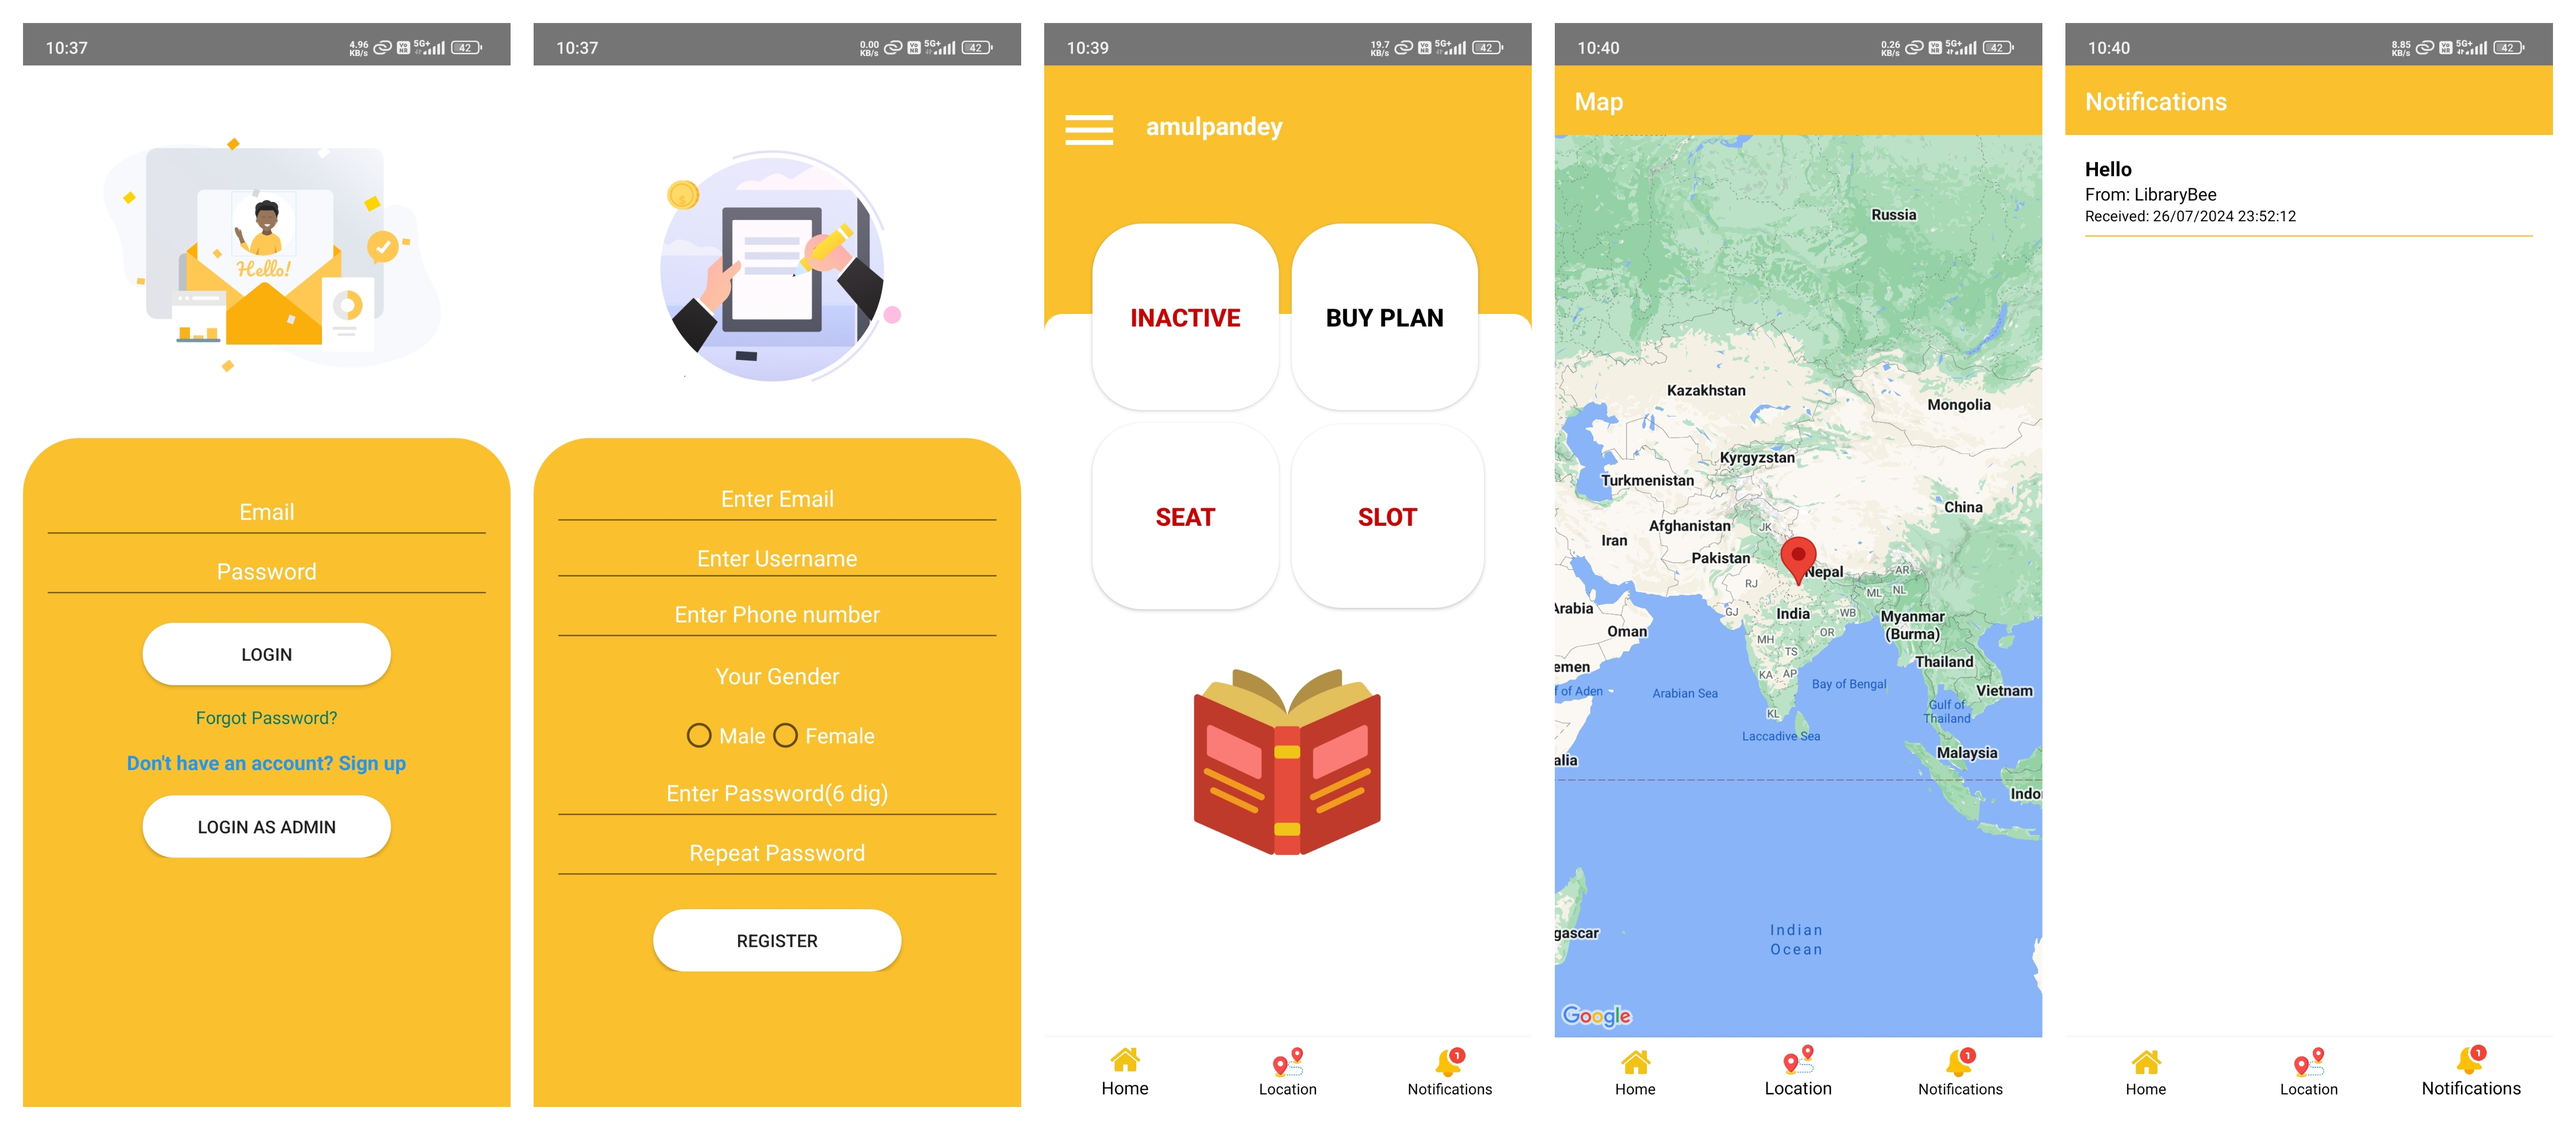
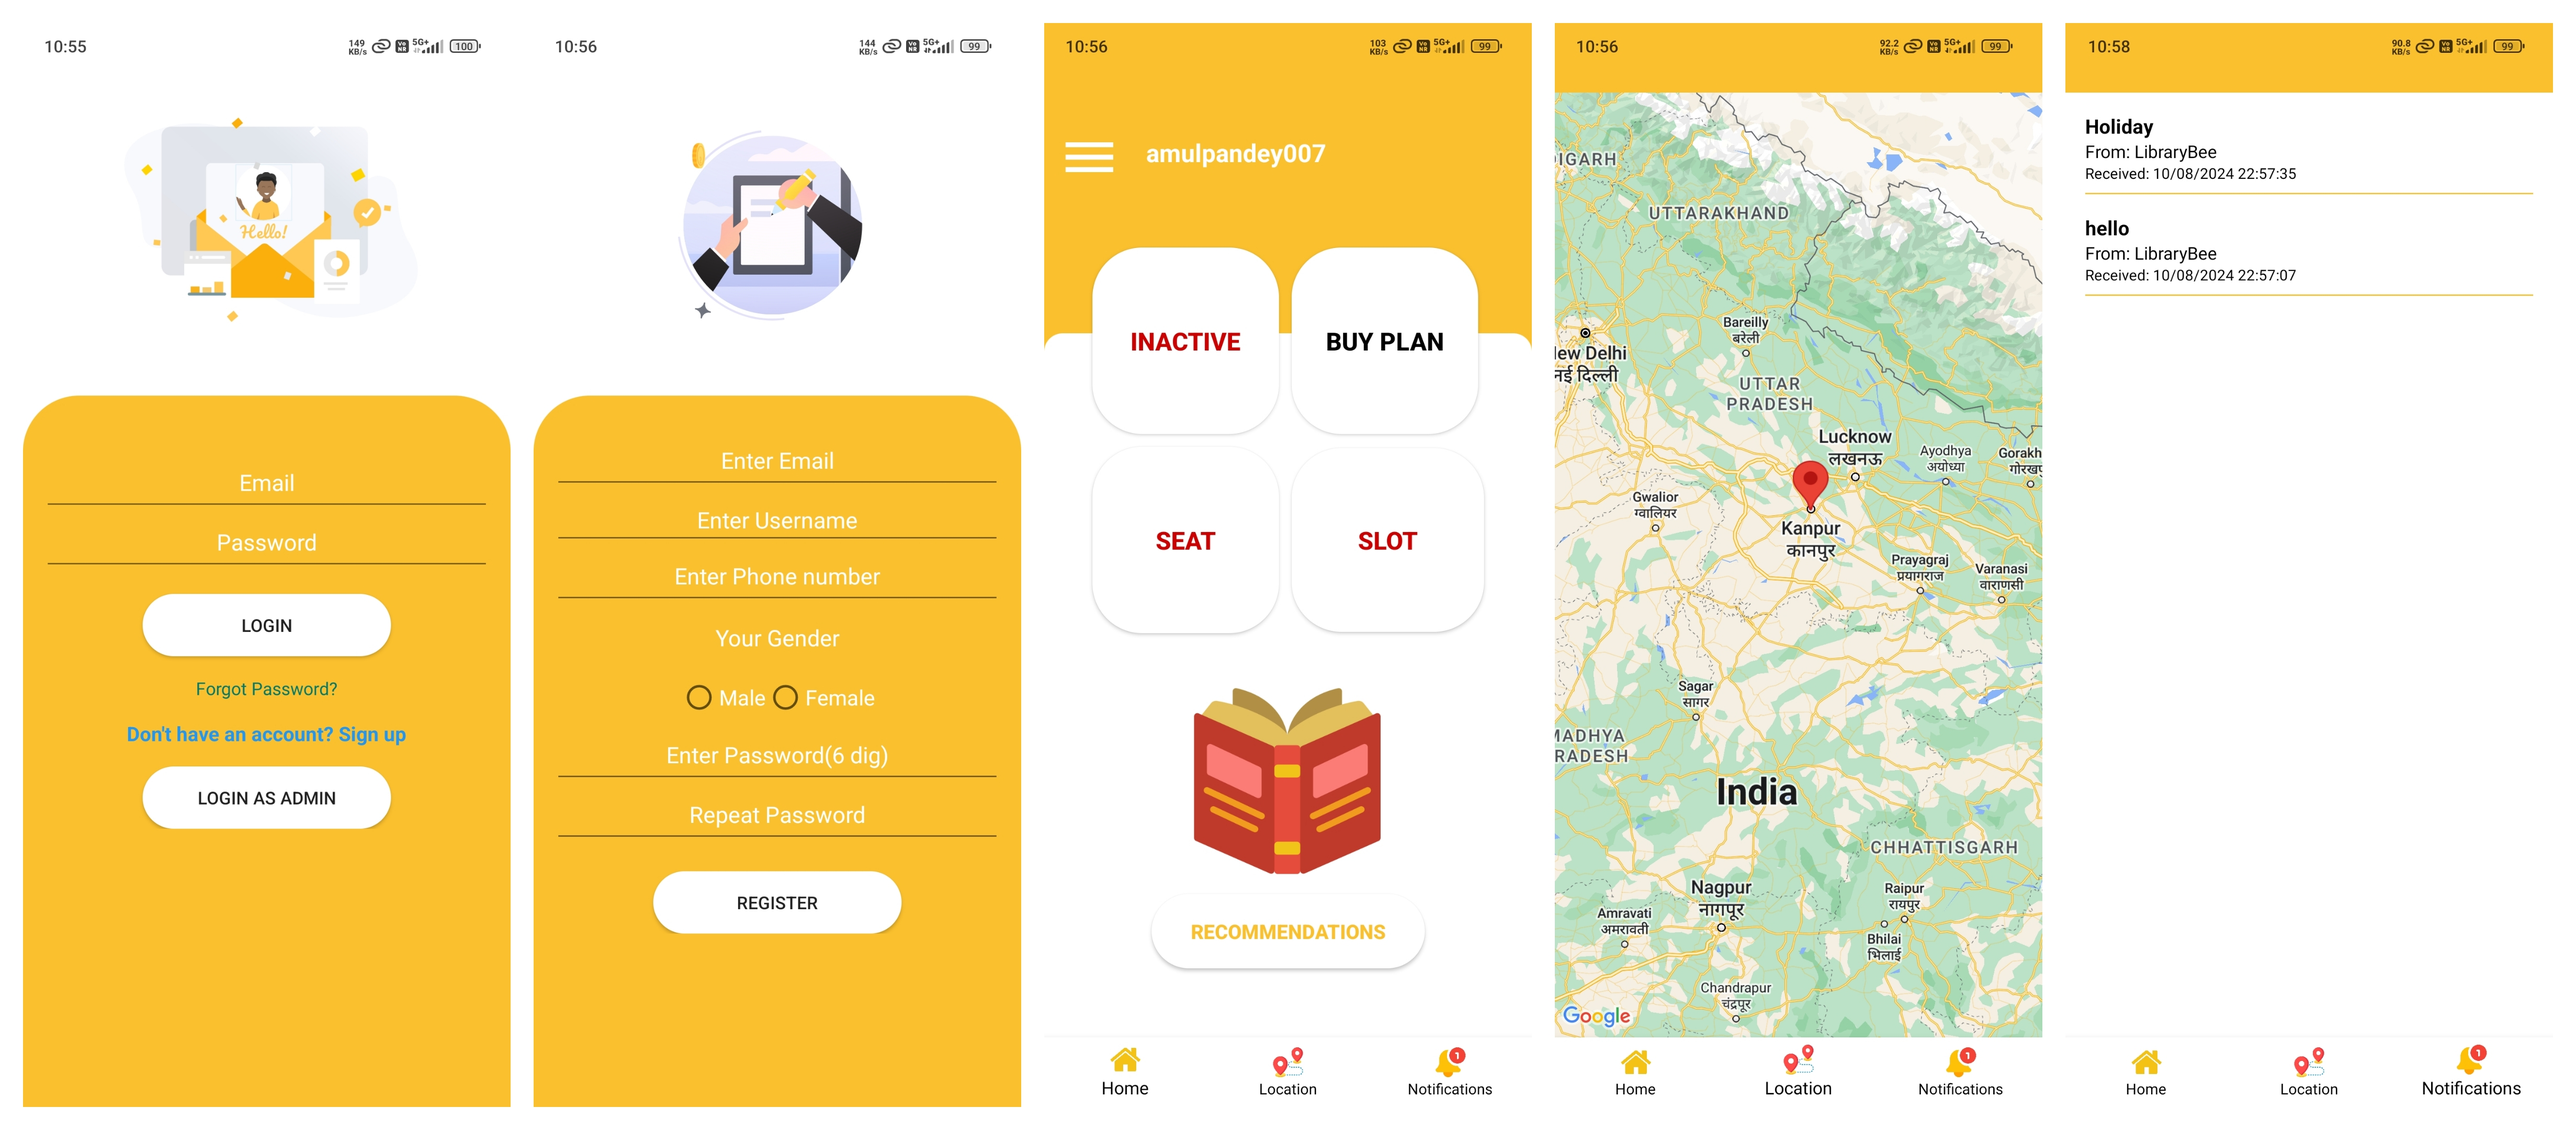
Project Deployed

diff --git a/app/src/main/java/com/example/LibraryBee/Admin_Pannel/UserListActivity.java b/app/src/main/java/com/example/LibraryBee/Admin_Pannel/UserListActivity.java
@@ -6,6 +6,8 @@ import androidx.appcompat.app.AppCompatActivity;
 import androidx.recyclerview.widget.LinearLayoutManager;
 import androidx.recyclerview.widget.RecyclerView;
 import android.view.View;
+import android.view.Window;
+import android.view.WindowManager;
 import android.widget.ProgressBar;
 import android.widget.SearchView;
 import android.widget.TextView;
@@ -28,6 +30,17 @@ public class UserListActivity extends AppCompatActivity {
     protected void onCreate(Bundle savedInstanceState) {
         super.onCreate(savedInstanceState);
         setContentView(com.example.LibraryBee.R.layout.activity_user_list);
+
+        Window window = getWindow();
+        window.addFlags(WindowManager.LayoutParams.FLAG_TRANSLUCENT_STATUS);
+        window.setStatusBarColor(android.graphics.Color.TRANSPARENT);
+
+        // Adjust content to fit system windows
+        getWindow().getDecorView().setSystemUiVisibility(
+                View.SYSTEM_UI_FLAG_LAYOUT_STABLE |
+                        View.SYSTEM_UI_FLAG_LAYOUT_FULLSCREEN);
+
+
         RecyclerView recyclerView = findViewById(com.example.LibraryBee.R.id.recyclerViewUsers);
         recyclerView.setLayoutManager(new LinearLayoutManager(this));
         progressBar = findViewById(com.example.LibraryBee.R.id.progressBar);

diff --git a/app/src/main/java/com/example/LibraryBee/Admin_Pannel/RequestHandeling.java b/app/src/main/java/com/example/LibraryBee/Admin_Pannel/RequestHandeling.java
@@ -11,6 +11,8 @@ import android.os.Bundle;
 import android.util.Log;
 import android.view.View;
 import android.app.AlertDialog;
+import android.view.Window;
+import android.view.WindowManager;
 import android.widget.ProgressBar;
 import android.widget.TextView;
 
@@ -53,6 +55,17 @@ public class RequestHandeling extends AppCompatActivity {
     protected void onCreate(Bundle savedInstanceState) {
         super.onCreate(savedInstanceState);
         setContentView(R.layout.activity_request_handeling);
+
+        Window window = getWindow();
+        window.addFlags(WindowManager.LayoutParams.FLAG_TRANSLUCENT_STATUS);
+        window.setStatusBarColor(android.graphics.Color.TRANSPARENT);
+
+        // Adjust content to fit system windows
+        getWindow().getDecorView().setSystemUiVisibility(
+                View.SYSTEM_UI_FLAG_LAYOUT_STABLE |
+                        View.SYSTEM_UI_FLAG_LAYOUT_FULLSCREEN);
+
+
         requestRef = FirebaseDatabase.getInstance().getReference("requests");
         requestRecyclerView = findViewById(R.id.request_recycler_view);
         requestList = new ArrayList<>();

diff --git a/app/src/main/java/com/example/LibraryBee/User_Pannel/FullScreenImageActivity.java b/app/src/main/java/com/example/LibraryBee/User_Pannel/FullScreenImageActivity.java
@@ -4,6 +4,9 @@ import android.app.ProgressDialog;
 import android.content.Intent;
 import android.net.Uri;
 import android.os.Bundle;
+import android.view.View;
+import android.view.Window;
+import android.view.WindowManager;
 import android.widget.Button;
 import android.widget.ImageView;
 import android.widget.Toast;
@@ -35,6 +38,16 @@ public class FullScreenImageActivity extends AppCompatActivity {
     protected void onCreate(Bundle savedInstanceState) {
         super.onCreate(savedInstanceState);
         setContentView(R.layout.activity_full_screen_image);
+
+        Window window = getWindow();
+        window.addFlags(WindowManager.LayoutParams.FLAG_TRANSLUCENT_STATUS);
+        window.setStatusBarColor(android.graphics.Color.TRANSPARENT);
+
+        // Adjust content to fit system windows
+        getWindow().getDecorView().setSystemUiVisibility(
+                View.SYSTEM_UI_FLAG_LAYOUT_STABLE |
+                        View.SYSTEM_UI_FLAG_LAYOUT_FULLSCREEN);
+
 
         fullScreenImageView = findViewById(R.id.fullScreenImageView);
         deleteButton = findViewById(R.id.deleteButton);

diff --git a/app/src/main/java/com/example/LibraryBee/User_Pannel/SeatSelectionActivity.java b/app/src/main/java/com/example/LibraryBee/User_Pannel/SeatSelectionActivity.java
@@ -4,6 +4,8 @@ import android.content.Intent;
 import android.graphics.drawable.Drawable;
 import android.os.Bundle;
 import android.view.View;
+import android.view.Window;
+import android.view.WindowManager;
 import android.widget.Button;
 import android.widget.GridView;
 import android.widget.ImageView;
@@ -53,6 +55,16 @@ public class SeatSelectionActivity extends AppCompatActivity {
     protected void onCreate(Bundle savedInstanceState) {
         super.onCreate(savedInstanceState);
         setContentView(R.layout.activity_seat_selection);
+
+        Window window = getWindow();
+        window.addFlags(WindowManager.LayoutParams.FLAG_TRANSLUCENT_STATUS);
+        window.setStatusBarColor(android.graphics.Color.TRANSPARENT);
+
+        // Adjust content to fit system windows
+        getWindow().getDecorView().setSystemUiVisibility(
+                View.SYSTEM_UI_FLAG_LAYOUT_STABLE |
+                        View.SYSTEM_UI_FLAG_LAYOUT_FULLSCREEN);
+
 
         radioGroupSlots = findViewById(R.id.radioGroupSlots);
         gridView = findViewById(R.id.gridView);

diff --git a/app/src/main/java/com/example/LibraryBee/Admin_Pannel/AdminDashboardActivity.java b/app/src/main/java/com/example/LibraryBee/Admin_Pannel/AdminDashboardActivity.java
@@ -15,6 +15,8 @@ import android.util.Log;
 import android.view.Menu;
 import android.view.MenuItem;
 import android.view.View;
+import android.view.Window;
+import android.view.WindowManager;
 import android.widget.Button;
 import android.widget.EditText;
 import android.widget.Toast;
@@ -73,6 +75,17 @@ public class AdminDashboardActivity extends AppCompatActivity {
     protected void onCreate(Bundle savedInstanceState) {
         super.onCreate(savedInstanceState);
         setContentView(R.layout.activity_admin_dashboard);
+
+        Window window = getWindow();
+        window.addFlags(WindowManager.LayoutParams.FLAG_TRANSLUCENT_STATUS);
+        window.setStatusBarColor(android.graphics.Color.TRANSPARENT);
+
+        // Adjust content to fit system windows
+        getWindow().getDecorView().setSystemUiVisibility(
+                View.SYSTEM_UI_FLAG_LAYOUT_STABLE |
+                        View.SYSTEM_UI_FLAG_LAYOUT_FULLSCREEN);
+
+
 
         NavigationView navigationView = findViewById(R.id.navigation_view);
         navigationView.setItemIconTintList(null);

diff --git a/app/src/main/java/com/example/LibraryBee/Auth/Signup.java b/app/src/main/java/com/example/LibraryBee/Auth/Signup.java
@@ -6,6 +6,9 @@ import android.content.Intent;
 import android.os.Bundle;
 import android.text.TextUtils;
 import android.util.Log;
+import android.view.View;
+import android.view.Window;
+import android.view.WindowManager;
 import android.widget.Button;
 import android.widget.EditText;
 import android.widget.RadioButton;
@@ -49,6 +52,16 @@ public class Signup extends AppCompatActivity {
     protected void onCreate(Bundle savedInstanceState) {
         super.onCreate(savedInstanceState);
         setContentView(R.layout.activity_signup);
+
+        Window window = getWindow();
+        window.addFlags(WindowManager.LayoutParams.FLAG_TRANSLUCENT_STATUS);
+        window.setStatusBarColor(android.graphics.Color.TRANSPARENT);
+
+        // Adjust content to fit system windows
+        getWindow().getDecorView().setSystemUiVisibility(
+                View.SYSTEM_UI_FLAG_LAYOUT_STABLE |
+                        View.SYSTEM_UI_FLAG_LAYOUT_FULLSCREEN);
+
 
         // Initialize views
         emailEditText = findViewById(R.id.emailEditText);

diff --git a/app/src/main/java/com/example/LibraryBee/User_Pannel/paymentActivity.java b/app/src/main/java/com/example/LibraryBee/User_Pannel/paymentActivity.java
@@ -6,6 +6,8 @@ import android.os.Bundle;
 import android.os.Handler;
 import android.util.Log;
 import android.view.View;
+import android.view.Window;
+import android.view.WindowManager;
 import android.widget.Button;
 import android.widget.Toast;
 import androidx.annotation.NonNull;
@@ -46,6 +48,17 @@ public class paymentActivity extends AppCompatActivity {
     protected void onCreate(Bundle savedInstanceState) {
         super.onCreate(savedInstanceState);
         setContentView(com.example.LibraryBee.R.layout.activity_payment);
+
+        Window window = getWindow();
+        window.addFlags(WindowManager.LayoutParams.FLAG_TRANSLUCENT_STATUS);
+        window.setStatusBarColor(android.graphics.Color.TRANSPARENT);
+
+        // Adjust content to fit system windows
+        getWindow().getDecorView().setSystemUiVisibility(
+                View.SYSTEM_UI_FLAG_LAYOUT_STABLE |
+                        View.SYSTEM_UI_FLAG_LAYOUT_FULLSCREEN);
+
+
         initializeViews();
 
         // Get the selected seat number from the intent

diff --git a/app/src/main/java/com/example/LibraryBee/User_Pannel/UserDashboardActivity.java b/app/src/main/java/com/example/LibraryBee/User_Pannel/UserDashboardActivity.java
@@ -4,6 +4,9 @@ import android.app.ProgressDialog;
 import android.content.Context;
 import android.content.SharedPreferences;
 import android.os.Bundle;
+import android.view.View;
+import android.view.Window;
+import android.view.WindowManager;
 
 import androidx.activity.EdgeToEdge;
 import androidx.annotation.NonNull;
@@ -45,6 +48,17 @@ public class UserDashboardActivity extends AppCompatActivity {
     protected void onCreate(Bundle savedInstanceState) {
         super.onCreate(savedInstanceState);
         setContentView(R.layout.activity_user_dashboard);
+
+        Window window = getWindow();
+        window.addFlags(WindowManager.LayoutParams.FLAG_TRANSLUCENT_STATUS);
+        window.setStatusBarColor(android.graphics.Color.TRANSPARENT);
+
+        // Adjust content to fit system windows
+        getWindow().getDecorView().setSystemUiVisibility(
+                View.SYSTEM_UI_FLAG_LAYOUT_STABLE |
+                        View.SYSTEM_UI_FLAG_LAYOUT_FULLSCREEN);
+
+
 
 
         FirebaseApp.initializeApp(this);

diff --git a/app/src/main/java/com/example/LibraryBee/Admin_Pannel/SeatManagementActivity.java b/app/src/main/java/com/example/LibraryBee/Admin_Pannel/SeatManagementActivity.java
@@ -4,6 +4,8 @@ import android.graphics.drawable.Drawable;
 import android.os.Bundle;
 import android.view.LayoutInflater;
 import android.view.View;
+import android.view.Window;
+import android.view.WindowManager;
 import android.widget.GridView;
 import android.widget.ImageView;
 import android.widget.ListView;
@@ -39,6 +41,16 @@ public class SeatManagementActivity extends AppCompatActivity {
     protected void onCreate(Bundle savedInstanceState) {
         super.onCreate(savedInstanceState);
         setContentView(R.layout.activity_seat_management);
+
+        Window window = getWindow();
+        window.addFlags(WindowManager.LayoutParams.FLAG_TRANSLUCENT_STATUS);
+        window.setStatusBarColor(android.graphics.Color.TRANSPARENT);
+
+        // Adjust content to fit system windows
+        getWindow().getDecorView().setSystemUiVisibility(
+                View.SYSTEM_UI_FLAG_LAYOUT_STABLE |
+                        View.SYSTEM_UI_FLAG_LAYOUT_FULLSCREEN);
+
 
         gridView = findViewById(R.id.gridView);
 

diff --git a/app/src/main/java/com/example/LibraryBee/Auth/Login.java b/app/src/main/java/com/example/LibraryBee/Auth/Login.java
@@ -8,6 +8,8 @@ import android.os.Bundle;
 import android.text.TextUtils;
 import android.util.Log;
 import android.view.View;
+import android.view.Window;
+import android.view.WindowManager;
 import android.widget.Button;
 import android.widget.EditText;
 import android.widget.FrameLayout;
@@ -53,6 +55,16 @@ public class Login extends AppCompatActivity {
     protected void onCreate(Bundle savedInstanceState) {
         super.onCreate(savedInstanceState);
         setContentView(R.layout.activity_login);
+
+        Window window = getWindow();
+        window.addFlags(WindowManager.LayoutParams.FLAG_TRANSLUCENT_STATUS);
+        window.setStatusBarColor(android.graphics.Color.TRANSPARENT);
+
+        // Adjust content to fit system windows
+        getWindow().getDecorView().setSystemUiVisibility(
+                View.SYSTEM_UI_FLAG_LAYOUT_STABLE |
+                        View.SYSTEM_UI_FLAG_LAYOUT_FULLSCREEN);
+
 
         initializeViews();
         auth = FirebaseAuth.getInstance();

diff --git a/app/src/main/java/com/example/LibraryBee/User_Pannel/BookRecommendActivity.java b/app/src/main/java/com/example/LibraryBee/User_Pannel/BookRecommendActivity.java
@@ -49,15 +49,15 @@ public class BookRecommendActivity extends AppCompatActivity {
         super.onCreate(savedInstanceState);
         setContentView(R.layout.activity_book_recommend);
 
-        // Set the status bar to transparent
         Window window = getWindow();
         window.addFlags(WindowManager.LayoutParams.FLAG_TRANSLUCENT_STATUS);
         window.setStatusBarColor(android.graphics.Color.TRANSPARENT);
 
-        // Optional: Adjust content to fit system windows
+        // Adjust content to fit system windows
         getWindow().getDecorView().setSystemUiVisibility(
                 View.SYSTEM_UI_FLAG_LAYOUT_STABLE |
                         View.SYSTEM_UI_FLAG_LAYOUT_FULLSCREEN);
+
 
         recyclerView = findViewById(R.id.recyclerView);
         recyclerView.setLayoutManager(new LinearLayoutManager(this));
